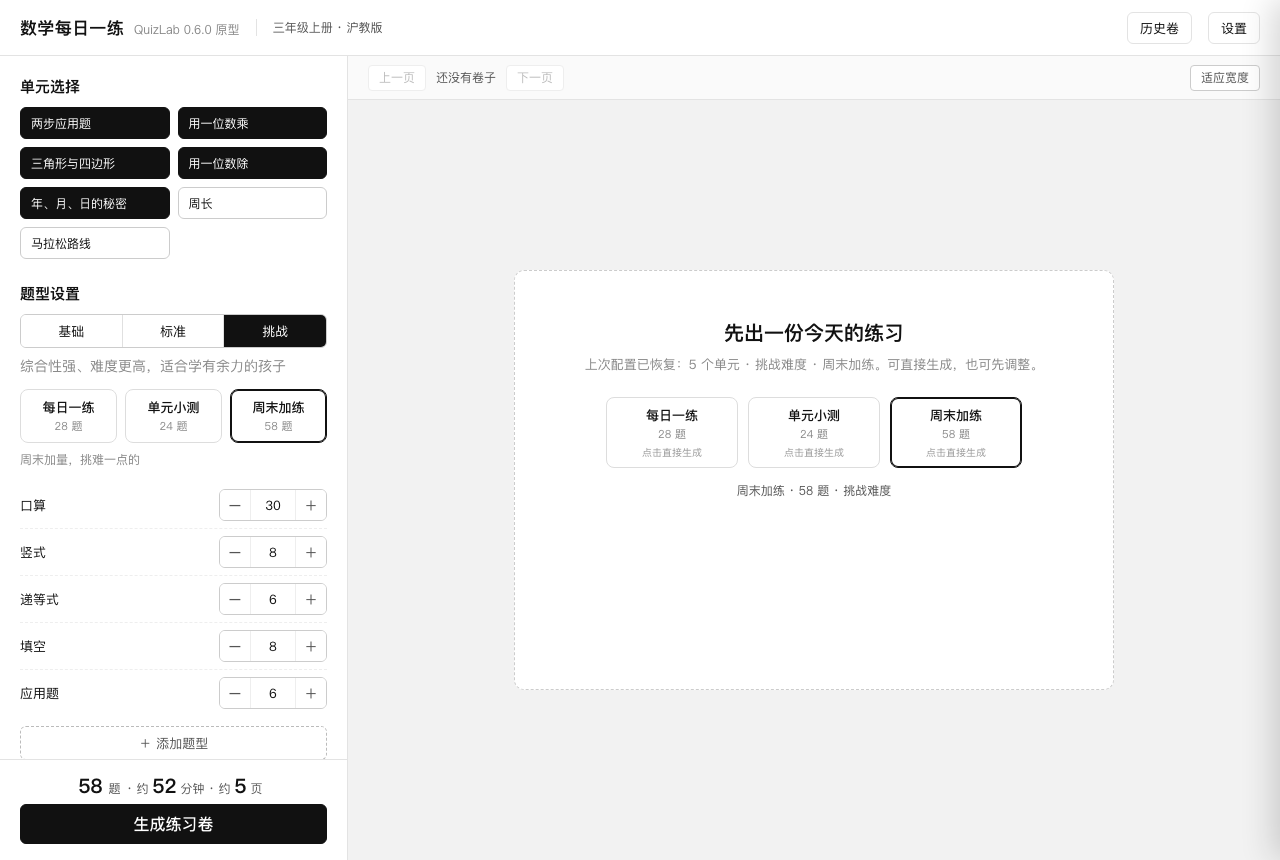
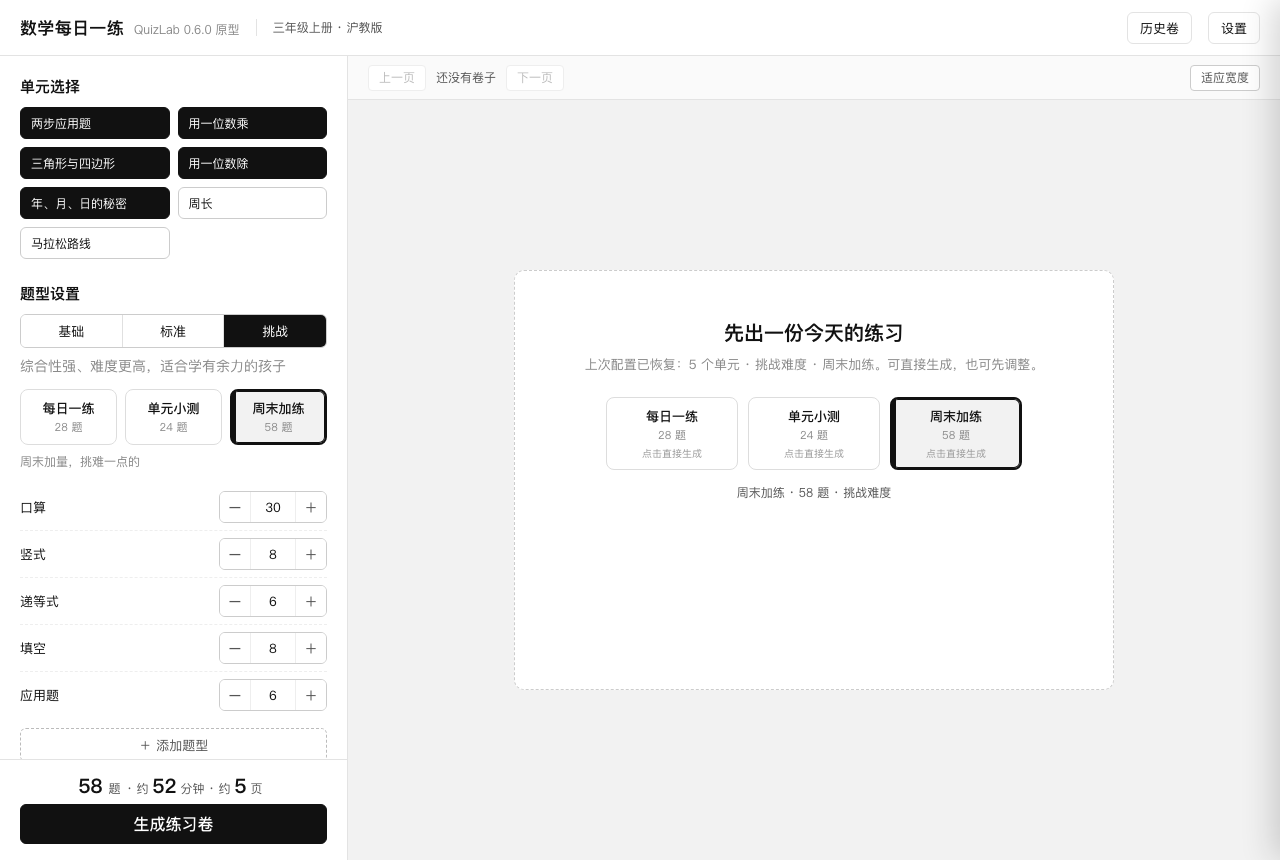
docs: 0.6.0 原型默认恢复上次配置并强化套餐高亮

diff --git a/docs/ui-prototype-0.6.0/index.html b/docs/ui-prototype-0.6.0/index.html
@@ -76,7 +76,7 @@
 
       .presets { display: grid; grid-template-columns: repeat(3, 1fr); gap: 8px; margin-top: 12px; }
       .preset {
-        display: flex; flex-direction: column; justify-content: center; align-items: center;
+        position: relative; display: flex; flex-direction: column; justify-content: center; align-items: center;
         min-height: 52px; padding: 8px 6px; border: 1px solid #ddd; border-radius: 8px; background: #fff; text-align: center;
       }
       .preset b { display: block; font-size: 13px; font-weight: 500; }
@@ -97,7 +97,13 @@
       }
       .group-head .arrow { font-size: 11px; color: var(--ink-3); width: 12px; }
       .group-head .name { font-size: 14px; font-weight: 600; color: var(--ink); }
-      .preset[aria-pressed='true'] { border-color: var(--ink); box-shadow: inset 0 0 0 1px var(--ink); }
+      .preset[aria-pressed='true'] {
+        border: 2px solid var(--ink); background: #f2f2f2; box-shadow: inset 0 0 0 1px var(--ink);
+      }
+      .preset[aria-pressed='true']::before {
+        content: ''; position: absolute; left: 0; top: 0; bottom: 0; width: 4px;
+        background: var(--ink); border-radius: 6px 0 0 6px;
+      }
 
       .type { display: flex; align-items: center; gap: 10px; padding: 7px 0; border-bottom: 1px dashed #eee; }
       .type:last-child { border-bottom: 0; }
@@ -475,6 +481,9 @@
           <div class="field"><span class="label">默认难度</span><span class="spacer"></span>
             <div class="seg" id="settingsLevels" style="width: 210px"><button data-level="L1">基础</button><button data-level="L2">标准</button><button data-level="L3">挑战</button></div>
           </div>
+          <div class="field"><span class="label">上次套餐</span><span class="note">决定重开后高亮哪张卡</span><span class="spacer"></span>
+            <b id="lastPresetLabel" style="font-size: 13px">每日一练</b>
+          </div>
         </section>
 
         <section class="setting-group">
@@ -484,6 +493,9 @@
           </div>
           <div class="field"><span class="label">清空出题记忆</span><span class="note">清空后新卷可能和旧卷重复</span><span class="spacer"></span>
             <button class="danger" id="clearMemory">清空</button>
+          </div>
+          <div class="field"><span class="label">恢复默认设置</span><span class="note">回到首次进入的状态</span><span class="spacer"></span>
+            <button class="secondary" id="restoreDefaults">恢复</button>
           </div>
         </section>
 
@@ -584,6 +596,7 @@
         level: 'L2',
         preset: 'daily',
         fromPreset: null,
+        lastPreset: null,
         restored: false,
         counts: {},
         added: new Set(),
@@ -616,6 +629,7 @@
         state.level = preset.level
         state.preset = id
         state.fromPreset = null
+        state.lastPreset = id
         state.restored = false
       }
 
@@ -624,6 +638,7 @@
           state.fromPreset = state.preset
           state.preset = null
         }
+        state.lastPreset = null
         state.restored = false
       }
 
@@ -805,6 +820,8 @@
         document.querySelectorAll('#settingsLevels button').forEach((b) => {
           b.setAttribute('aria-pressed', b.dataset.level === state.defaultLevel ? 'true' : 'false')
         })
+        const last = PRESETS.find((p) => p.id === state.lastPreset)
+        document.getElementById('lastPresetLabel').textContent = last ? last.name : '自定义'
       }
 
       function openAddPanel() {
@@ -1124,6 +1141,18 @@
       document.querySelectorAll('#settingsLevels button').forEach((b) => {
         b.onclick = () => { state.defaultLevel = b.dataset.level; renderSettingsChoices() }
       })
+      document.getElementById('restoreDefaults').onclick = () => {
+        state.units = new Set(UNITS)
+        applyPreset('daily')
+        state.built = false
+        state.result = null
+        state.status = null
+        state.pdfOpen = false
+        state.history = []
+        closeAll()
+        render()
+        showToast('已恢复默认设置')
+      }
       document.getElementById('cleanHistory').onclick = () => {
         state.history = []
         renderHistory()
@@ -1242,7 +1271,7 @@
       function applyInitialView() {
         const initialLevel = params.get('level')
         if (initialLevel && LEVEL_HELP[initialLevel]) state.level = initialLevel
-        if (initialView === 'main') {
+        if (initialView === 'main' || initialView === 'restart') {
           state.units = new Set(UNITS.slice(0, 5))
           applyPreset('weekend')
           state.restored = true
@@ -1277,6 +1306,7 @@
           state.counts.kousuan = 30
           state.preset = null
           state.fromPreset = 'daily'
+          state.lastPreset = null
         } else if (initialView === 'shortage') {
           state.counts.kousuan = 50
           state.counts.tiankong = 5
